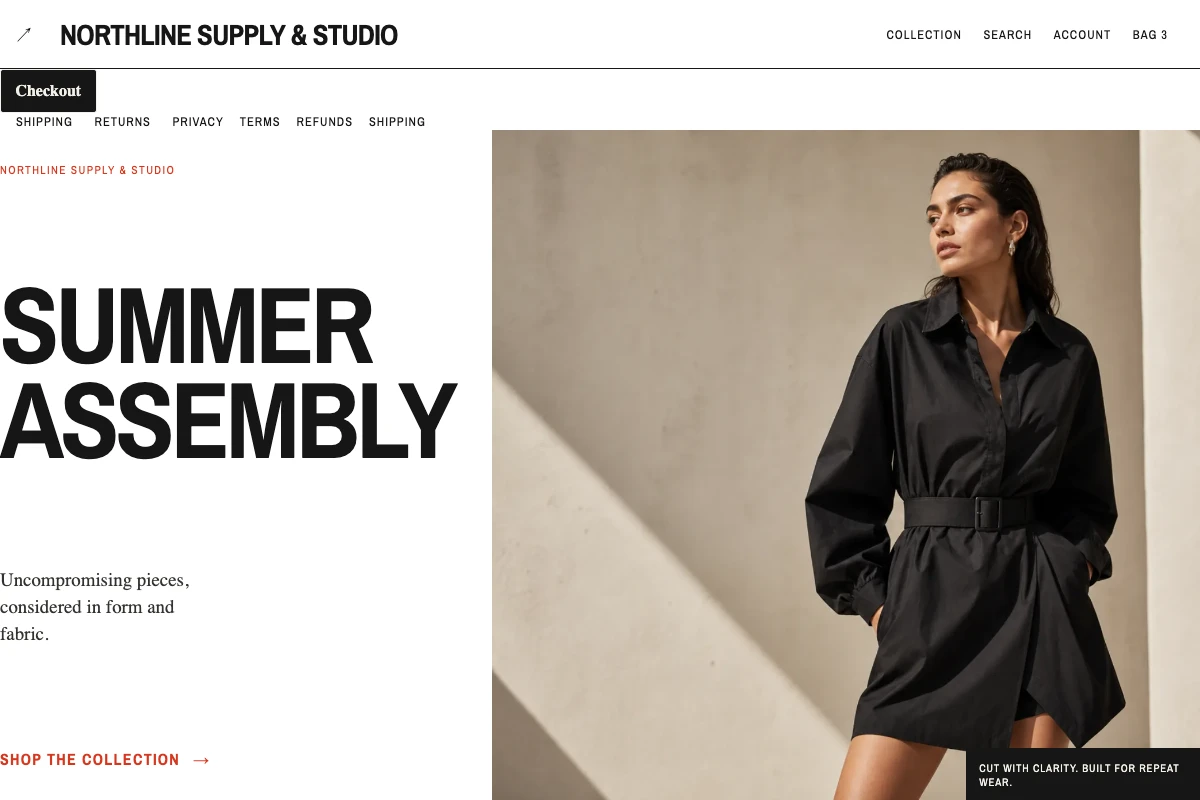
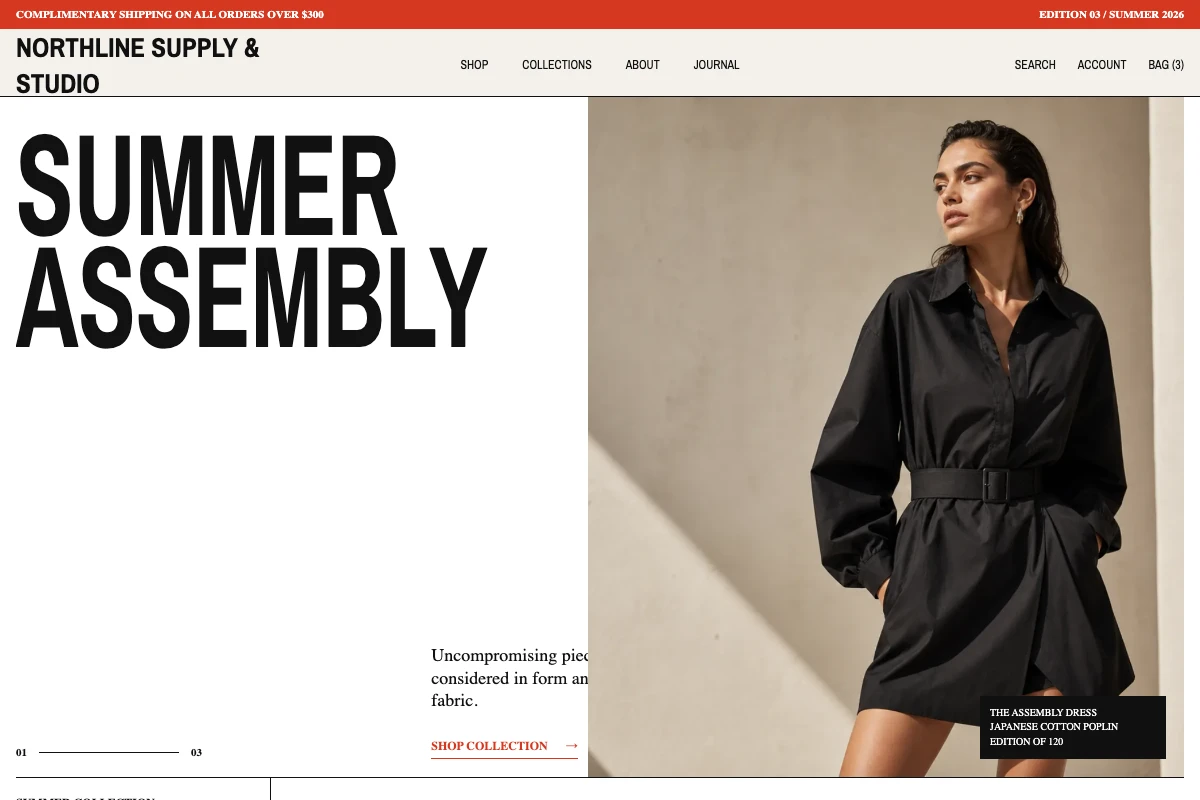
fix(storefront): preserve Atelier template fidelity

diff --git a/app/lib/storefront-recipes/atelier-nine/bundle.ts b/app/lib/storefront-recipes/atelier-nine/bundle.ts
@@ -8,10 +8,15 @@ const routeDefaults: Pick<RouteSource, "requiredData" | "requiredCapabilities"> 
 };
 
 const globalCss = `
-.atelier-wordmark { color:#161615; font-family:var(--font-display); font-size:1.8rem; font-weight:800; letter-spacing:-.025em; text-transform:uppercase }
-.atelier-nav { display:flex; align-items:center; gap:1.75rem; min-height:4.25rem; border-bottom:1px solid #161615 }
-.atelier-nav-links { display:flex; align-items:center; gap:1.35rem; margin-left:auto; font-family:var(--font-display); font-size:.78rem; letter-spacing:.08em; text-transform:uppercase }
-.atelier-link { color:#161615; text-decoration:none }
+.atelier-shell { width:min(calc(100% - 32px),1540px); margin-inline:auto }
+.announcement { display:flex; justify-content:space-between; padding:8px 16px; color:#fff; background:#d63821; font-size:11px; font-weight:700; text-transform:uppercase }
+.atelier-site-header { position:sticky; top:0; z-index:20; background:#f4f1eb; border-bottom:1px solid #101010 }
+.header-row { display:grid; grid-template-columns:250px 1fr 250px; align-items:center; height:67px }
+.atelier-wordmark { color:#101010; font-family:var(--font-display); font-size:27px; font-weight:900; text-transform:uppercase }
+.atelier-nav-links,.atelier-utility { display:flex; align-items:center; gap:34px; font-family:var(--font-display); font-size:12px; text-transform:uppercase }
+.atelier-nav-links { justify-content:center }
+.atelier-utility { justify-content:flex-end; gap:22px }
+.atelier-link { color:#101010; text-decoration:none }
 .atelier-link:hover { color:#d63821 }
 .atelier-heading { margin:0; color:#161615; font-family:var(--font-display); font-weight:800; letter-spacing:-.035em; line-height:.88; text-transform:uppercase }
 .atelier-serif { color:#34322f; font-family:var(--font-body); line-height:1.45 }
@@ -20,73 +25,117 @@ const globalCss = `
 .atelier-rule { border-bottom:1px solid #2a2927 }
 .atelier-action { display:inline-flex; align-items:center; gap:.8rem; color:#d63821; font-family:var(--font-display); font-weight:700; letter-spacing:.08em; text-decoration:none; text-transform:uppercase }
 .atelier-action:active { transform:translateY(1px) }
+.atelier-footer { display:grid; grid-template-columns:1.2fr 1fr 1fr; gap:50px; padding:48px 0 72px }
+.atelier-footer h3 { margin:0 0 16px; font-size:12px; text-transform:uppercase }
+.atelier-footer p,.atelier-footer a { color:#6e6b66; font-size:12px; line-height:1.8 }
+.newsletter { display:flex; justify-content:space-between; padding:10px 0; border-bottom:1px solid #101010; color:#6e6b66 }
+.shipping-bar { display:flex; justify-content:space-between; padding:11px 16px; color:#fff; background:#d63821; font-size:10px; text-transform:uppercase }
 @media (max-width:760px) {
-  .atelier-nav { flex-wrap:wrap; min-height:3.75rem; padding:.65rem 0 }
-  .atelier-nav-links { width:100%; gap:1rem; margin-left:0; overflow-x:auto }
+  .atelier-shell { width:min(calc(100% - 20px),1540px) }
+  .announcement span:last-child { display:none }
+  .header-row { display:flex; flex-wrap:wrap; width:calc(100vw - 20px); height:auto; min-height:58px; padding:8px 0 }
+  .atelier-wordmark { font-size:22px }
+  .atelier-nav-links { order:3; width:100%; gap:18px; overflow-x:auto; padding:7px 0 2px }
+  .atelier-utility { margin-left:auto }
+  .atelier-utility .atelier-link:not(:last-child) { display:none }
+  .atelier-footer { grid-template-columns:1fr; gap:28px; padding:40px 0 }
+  .shipping-bar { display:block; text-align:center }
+  .shipping-bar span:last-child { display:none }
 }
 `;
 
 const homeHtml = `
-<main>
-  <section class="atelier-home-hero">
-    <div class="atelier-home-copy">
-      <p class="atelier-home-store" data-cd-text="store.name"></p>
-      <h1 class="atelier-heading atelier-home-title">Summer Assembly</h1>
-      <p class="atelier-serif atelier-home-intro">Uncompromising pieces, considered in form and fabric.</p>
-      <a class="atelier-action" data-cd-route="collection">Shop the collection <span>→</span></a>
+<main id="top">
+  <section class="atelier-shell hero" aria-labelledby="hero-title">
+    <div class="hero-copy">
+      <h1 class="hero-title" id="hero-title"><span>Summer</span><span>Assembly</span></h1>
+      <div class="hero-lower">
+        <div class="edition"><b>01</b><i></i><b>03</b></div>
+        <div class="hero-intro"><p>Uncompromising pieces, considered in form and fabric.</p><a class="arrow-link" data-cd-route="collection">Shop collection <span>→</span></a></div>
+      </div>
     </div>
-    <figure class="atelier-home-figure">
-      <img class="atelier-media atelier-home-image" data-cd-asset="hero" alt="A monochrome tailored look from the summer assembly" width="1800" height="1200" decoding="async">
-      <figcaption class="atelier-home-caption">Cut with clarity. Built for repeat wear.</figcaption>
-    </figure>
+    <div class="hero-media"><img data-cd-asset="hero" alt="Model wearing the black Assembly shirt dress" width="1800" height="1200"><div class="hero-note">The Assembly Dress<br>Japanese cotton poplin<br>Edition of 120</div></div>
   </section>
-  <section class="atelier-home-index">
-    <h2 class="atelier-heading atelier-home-index-title">The current edit</h2>
-    <article class="atelier-home-card" data-cd-repeat="featured.products">
-      <a class="atelier-link" data-cd-key="product.id" data-cd-route="product" data-cd-param-handle="product.handle">
-        <img class="atelier-media atelier-home-card-image" data-cd-src="product.primaryImage" data-cd-alt="product.title" width="800" height="1000" loading="lazy">
-        <span class="atelier-home-card-title" data-cd-text="product.title"></span>
-        <span class="atelier-price" data-cd-money="product.price"></span>
-      </a>
-    </article>
+  <section class="atelier-shell catalog" aria-labelledby="catalog-title">
+    <aside class="catalog-side" tabindex="0"><h2 id="catalog-title">Summer collection</h2><div class="category-list"><span>New arrivals <small>04</small></span><span>Dresses <small>01</small></span><span>Tops <small>02</small></span><span>Outerwear <small>01</small></span></div></aside>
+    <div class="catalog-main">
+      <div class="catalog-head"><h2>New arrivals</h2><span>Featured</span></div>
+      <div class="product-grid">
+        <article class="product" data-cd-repeat="featured.products">
+          <a class="atelier-link" data-cd-key="product.id" data-cd-route="product" data-cd-param-handle="product.handle">
+            <div class="product-media"><img data-cd-src="product.primaryImage" data-cd-alt="product.title" width="800" height="1000" loading="lazy"><span class="product-badge">Edition</span></div>
+            <div class="product-info"><span data-cd-text="product.title"></span><span class="atelier-price" data-cd-money="product.price"></span></div>
+          </a>
+        </article>
+      </div>
+    </div>
   </section>
-  <section data-cd-repeat="featured.products">
-    <div data-cd-key="product.id" data-cd-slot="quickViewCommerce" data-cd-product="product.id" data-cd-host-size="panel" data-cd-theme-tokens="ink paper accent"></div>
+  <section data-cd-repeat="featured.products"><div data-cd-key="product.id" data-cd-slot="quickViewCommerce" data-cd-product="product.id" data-cd-host-size="panel" data-cd-theme-tokens="ink paper accent"></div></section>
+  <section class="atelier-shell manifesto">
+    <div class="manifesto-copy"><span class="manifesto-kicker">The Atelier Standard</span><h2>Designed slowly. Worn without ceremony.</h2><p>Every piece begins with proportion: a shoulder line, a clean fall, a pocket placed exactly where the hand expects it. We use materials selected for movement, longevity, and a life beyond one season.</p><a class="arrow-link" data-cd-route="collection">Read our process <span>→</span></a></div>
+    <div class="manifesto-index"><div><strong>09</strong><span>Pieces / one complete wardrobe</span></div></div>
   </section>
-  <section class="atelier-home-manifesto">
-    <h2 class="atelier-serif atelier-home-manifesto-title">Designed slowly. Worn without ceremony.</h2>
-    <p class="atelier-home-manifesto-copy">A concise wardrobe begins with proportion, movement, and materials selected for a life beyond one season.</p>
-  </section>
-</main>`;
+</main>
+<footer class="atelier-shell atelier-footer"><div><h3 data-cd-text="store.name"></h3><p>A concise wardrobe for deliberate living.<br>Designed in Toronto. Made with specialist ateliers.</p></div><div><h3>Customer care</h3><div class="atelier-policy-links" data-cd-policy-links></div></div><div><h3>Private notes</h3><p>New editions, studio notes, and first access.</p><div class="newsletter"><span>Email address</span><span>→</span></div></div></footer>
+<div class="shipping-bar"><span>Complimentary shipping on all orders over $300</span><span>Shipping &nbsp; Returns &nbsp; Contact &nbsp; Terms &nbsp; Privacy</span></div>`;
 
 const homeCss = `
-.atelier-home-hero { display:grid; grid-template-columns:minmax(0,.82fr) minmax(0,1.18fr); min-height:42rem; border-bottom:1px solid #161615 }
-.atelier-home-copy { display:flex; flex-direction:column; justify-content:space-between; padding:2rem 2.5rem 2rem 0 }
-.atelier-home-store { margin:0; color:#d63821; font-family:var(--font-display); font-size:.72rem; letter-spacing:.12em; text-transform:uppercase }
-.atelier-home-title { max-width:6ch; font-size:clamp(4.5rem,9vw,9rem) }
-.atelier-home-intro { max-width:21ch; margin:0; font-size:1.18rem }
-.atelier-home-figure { position:relative; min-height:42rem; margin:0; overflow:hidden }
-.atelier-home-image { height:100%; min-height:42rem }
-.atelier-home-caption { position:absolute; right:0; bottom:0; max-width:13rem; padding:.8rem; color:#f5f1e9; background:#161615; font-family:var(--font-display); font-size:.68rem; letter-spacing:.08em; text-transform:uppercase }
-.atelier-home-index { display:grid; grid-template-columns:minmax(11rem,.55fr) minmax(0,2.45fr); border-bottom:1px solid #161615 }
-.atelier-home-index-title { padding:1.25rem 1.5rem 1.25rem 0; font-size:1.1rem }
-.atelier-home-card { display:inline-block; width:min(24%,22rem); vertical-align:top; border-left:1px solid #aaa49b }
-.atelier-home-index { overflow-x:auto; scroll-snap-type:x proximity }
-.atelier-home-card { scroll-snap-align:start }
-.atelier-home-card-title { display:block; padding:.8rem .8rem .2rem; font-family:var(--font-display); font-size:.82rem; text-transform:uppercase }
-.atelier-home-card-image { aspect-ratio:4 / 5 }
-.atelier-home-card .atelier-price { display:block; padding:0 .8rem 1rem }
-.atelier-home-manifesto { display:grid; grid-template-columns:1.35fr .65fr; min-height:24rem; background:#b52d1c }
-.atelier-home-manifesto-title { max-width:11ch; margin:0; padding:3rem; color:#f5f1e9; font-size:clamp(2.5rem,5vw,4.5rem); font-weight:400 }
-.atelier-home-manifesto-copy { align-self:end; margin:0; padding:3rem; color:#f5f1e9; font-family:var(--font-display); line-height:1.5 }
+.hero { display:grid; grid-template-columns:49% 51%; min-height:680px; border-bottom:1px solid #101010 }
+.hero-copy { display:grid; grid-template-rows:1fr auto; overflow:hidden; padding:30px 18px 18px 0 }
+.hero-title { width:137%; margin:0; font-family:var(--font-display); font-size:144px; font-weight:900; line-height:.78; text-transform:uppercase; transform:scaleX(.73); transform-origin:top left }
+.hero-title span { display:block }
+.hero-lower { display:grid; grid-template-columns:1fr 230px; gap:24px; align-items:end }
+.edition { display:flex; align-items:center; gap:12px; font-size:11px }
+.edition i { width:140px; height:1px; background:#101010 }
+.hero-intro p { max-width:22ch; margin:0 0 24px; font-family:var(--font-body); font-size:18px; line-height:1.25 }
+.arrow-link { display:inline-flex; align-items:center; gap:18px; padding-bottom:5px; color:#d63821; border-bottom:1px solid currentColor; font-weight:750; font-size:12px; text-decoration:none; text-transform:uppercase }
+.hero-media { position:relative; min-height:680px; overflow:hidden }
+.hero-media img { width:100%; height:100%; object-fit:cover; object-position:58% center }
+.hero-note { position:absolute; right:18px; bottom:18px; width:166px; padding:10px; color:#fff; background:#101010; font-size:10px; line-height:1.45; text-transform:uppercase }
+.catalog { display:grid; grid-template-columns:255px minmax(0,1fr); border-bottom:1px solid #101010 }
+.catalog-side { padding:18px 28px 28px 0; border-right:1px solid #101010 }
+.catalog-side h2,.catalog-head h2 { margin:0; font-size:12px; text-transform:uppercase }
+.catalog-side h2 { margin-bottom:28px }
+.category-list { display:grid }
+.category-list span { display:flex; justify-content:space-between; padding:12px 0; border-bottom:1px solid #aaa49b; font-size:12px; text-transform:uppercase }
+.category-list span:first-child { color:#d63821; border-top:1px solid #aaa49b; font-weight:750 }
+.category-list small { color:#6e6b66 }
+.catalog-main { min-width:0 }
+.catalog-head { display:flex; align-items:center; justify-content:space-between; height:58px; padding:0 16px; border-bottom:1px solid #101010; font-size:10px; text-transform:uppercase }
+.product-grid { display:grid; grid-template-columns:repeat(4,minmax(0,1fr)) }
+.product { min-width:0; border-right:1px solid #aaa49b }
+.product-media { position:relative; width:100%; aspect-ratio:4 / 5; overflow:hidden; background:#ebe6de }
+.product-media img { width:100%; height:100%; object-fit:cover }
+.product-badge { position:absolute; top:10px; left:10px; padding:5px 7px; color:#fff; background:#101010; font-size:9px; text-transform:uppercase }
+.product-info { display:grid; grid-template-columns:1fr auto; gap:7px 14px; padding:12px 10px 18px; font-size:11px; text-transform:uppercase }
+.manifesto { display:grid; grid-template-columns:1.25fr .75fr; min-height:430px; border-bottom:1px solid #101010 }
+.manifesto-copy { padding:56px 7vw 62px 0; border-right:1px solid #101010 }
+.manifesto-kicker { color:#d63821; font-size:11px; text-transform:uppercase }
+.manifesto h2 { max-width:10ch; margin:24px 0 32px; font-family:var(--font-body); font-size:44px; line-height:1.04; font-weight:400 }
+.manifesto p { max-width:54ch; color:#6e6b66; line-height:1.7 }
+.manifesto-index { display:grid; place-items:center; color:#fff; background:#d63821 }
+.manifesto-index strong { font-family:var(--font-display); font-size:128px; line-height:1 }
+.manifesto-index span { display:block; margin-top:10px; text-align:center; text-transform:uppercase; font-size:11px }
+@media (max-width:1120px) { .hero-title{font-size:104px}.hero,.hero-media{min-height:600px}.product-grid{grid-template-columns:repeat(2,1fr)} }
 @media (max-width:760px) {
-  .atelier-home-hero, .atelier-home-index, .atelier-home-manifesto { grid-template-columns:1fr }
-  .atelier-home-copy { min-height:28rem; padding:1.5rem 0 }
-  .atelier-home-title { font-size:4.5rem }
-  .atelier-home-figure, .atelier-home-image { min-height:65vw }
-  .atelier-home-card { width:50% }
+  .hero { grid-template-columns:1fr; min-height:0 }
+  .hero-copy { min-height:450px; padding:25px 0 18px }
+  .hero-title { width:128%; font-size:66px; line-height:.82; transform:scaleX(.78) }
+  .hero-lower { grid-template-columns:1fr }
+  .hero-intro p { margin:0; font-size:15px }
+  .hero-media { min-height:72vw }
+  .catalog { grid-template-columns:1fr }
+  .catalog-side { padding:18px 0; border-right:0; border-bottom:1px solid #101010; overflow-x:auto }
+  .category-list { display:flex; width:max-content; gap:18px }
+  .category-list span { gap:8px; border:0 }
+  .catalog-head { padding-inline:0 }
+  .product-grid { grid-template-columns:repeat(2,1fr) }
+  .product-info { grid-template-columns:1fr }
+  .manifesto { grid-template-columns:1fr }
+  .manifesto-copy { padding:42px 0; border-right:0 }
+  .manifesto h2 { font-size:34px }
+  .manifesto-index { min-height:280px }
 }
-@media (prefers-reduced-motion:reduce) { .atelier-home-index { scroll-snap-type:none } }
 `;
 
 const collectionHtml = `
@@ -288,7 +337,8 @@ const checkoutCss = `
 .atelier-checkout-story { display:grid; grid-template-columns:2fr 1fr; gap:32px; padding:48px 0; border-bottom-width:1px; border-style:solid; border-color:#aaa49b }
 .atelier-checkout-title { margin:0; color:#161615; font-family:var(--font-display); font-size:64px; font-weight:800; line-height:48px }
 .atelier-checkout-copy { margin:0; color:#5c5953; font-family:var(--font-body); font-size:18px; line-height:28px }
-.atelier-checkout-policies { margin-top:24px }
+.atelier-checkout-policies { display:grid; grid-template-columns:1fr 1fr; gap:12px; margin-top:24px }
+.atelier-checkout-policies a { color:#5c5953; font-size:12px; text-decoration:none }
 @media (max-width:760px) {
   .atelier-checkout-head { display:block }
   .atelier-checkout-note { margin-top:16px; text-align:left }
@@ -336,11 +386,11 @@ const config = {
   },
   surfaces: {
     shell: {
-      signature: "single-line issue masthead above a separate trusted cart surface",
+      signature: "canonical announcement and masthead before the route composition",
       source: {
         ...routeDefaults,
-        html: `<header class="atelier-nav"><span class="niche-icon niche-icon--atelier" aria-hidden="true">&#8599;</span><a class="atelier-wordmark atelier-link" data-cd-route="home" data-cd-text="store.name"></a><nav class="atelier-nav-links" aria-label="Primary"><a class="atelier-link" data-cd-route="collection">Collection</a><a class="atelier-link" data-cd-route="search">Search</a><a class="atelier-link" data-cd-route="account">Account</a><a class="atelier-link" data-cd-route="cart">Bag <span data-cd-text="cart.count"></span></a></nav></header><div data-cd-slot="cartDrawer" data-cd-host-size="panel" data-cd-theme-tokens="ink paper accent"></div><footer class="atelier-nav-links"><a class="atelier-link" data-cd-route="policy" data-cd-param-policy-id="shipping">Shipping</a><a class="atelier-link" data-cd-route="policy" data-cd-param-policy-id="refund">Returns</a><div class="atelier-policy-links" data-cd-policy-links></div></footer>`,
-        css: `.atelier-nav, .atelier-nav-links { padding-left:max(1rem,calc((100% - 96rem)/2)); padding-right:max(1rem,calc((100% - 96rem)/2)) }.atelier-policy-links{display:flex;flex-wrap:wrap;gap:1rem}.atelier-policy-links a{color:var(--ink);text-decoration:none} @media(max-width:720px){.atelier-nav{align-items:start;display:grid;gap:.75rem}.atelier-nav-links{display:grid;grid-template-columns:repeat(2,1fr);gap:.5rem}.atelier-nav-links a{border-top:1px solid var(--line);padding-top:.45rem}}`,
+        html: `<div class="announcement"><span>Complimentary shipping on all orders over $300</span><span>Edition 03 / Summer 2026</span></div><header class="atelier-site-header"><div class="atelier-shell header-row"><a class="atelier-wordmark atelier-link" data-cd-route="home" data-cd-text="store.name"></a><nav class="atelier-nav-links" aria-label="Primary"><a class="atelier-link" data-cd-route="collection">Shop</a><a class="atelier-link" data-cd-route="collection">Collections</a><a class="atelier-link" data-cd-route="home">About</a><a class="atelier-link" data-cd-route="search">Journal</a></nav><div class="atelier-utility"><a class="atelier-link" data-cd-route="search">Search</a><a class="atelier-link" data-cd-route="account">Account</a><a class="atelier-link" data-cd-route="cart">Bag (<span data-cd-text="cart.count"></span>)</a></div></div></header><div data-cd-slot="cartDrawer" data-cd-host-size="panel" data-cd-theme-tokens="ink paper accent"></div>`,
+        css: `.atelier-policy-links{display:flex;flex-wrap:wrap;gap:1rem}.atelier-policy-links a{color:var(--ink);text-decoration:none}`,
       },
     },
     home: { signature: "offset cover story beside owned full-height fashion photography", source: { ...routeDefaults, html: homeHtml, css: homeCss } },

diff --git a/app/lib/storefront-recipes/atelier-nine/bundle.test.ts b/app/lib/storefront-recipes/atelier-nine/bundle.test.ts
@@ -1,15 +1,38 @@
+import { readFileSync } from "node:fs";
+import path from "node:path";
+import { fileURLToPath } from "node:url";
 import { describe, expect, it } from "vitest";
 import type { RouteArtifact } from "~/lib/storefront-bundle/types";
 import { ATELIER_GRID_ASSETS } from "./assets";
 import { ATELIER_GRID_BUNDLE, ATELIER_GRID_RECIPE } from "./bundle";
 
 const ROUTES = ["home", "collection", "product", "search", "cart"] as const;
+const CANONICAL_HTML = readFileSync(path.resolve(
+  path.dirname(fileURLToPath(import.meta.url)),
+  "../../../../public/atelier-grid/index.html",
+), "utf8");
 
 function bindingPaths(route: RouteArtifact): string[] {
   return route.bindings.flatMap((binding) => binding.ref.kind === "data" ? [binding.ref.path] : []);
 }
 
 describe("Atelier Grid recipe contract", () => {
+  it("preserves the canonical storefront composition while products stay merchant-bound", () => {
+    const recipeHtml = `${ATELIER_GRID_RECIPE.config.surfaces.shell.source.html}\n${ATELIER_GRID_RECIPE.config.surfaces.home.source.html}`;
+    const recipeCss = `${ATELIER_GRID_RECIPE.config.designSystem.globalCss}\n${ATELIER_GRID_RECIPE.config.surfaces.home.source.css}`;
+    for (const className of [
+      "announcement", "header-row", "hero-lower", "edition", "catalog-side",
+      "catalog-main", "product-grid", "manifesto-copy", "manifesto-index", "shipping-bar",
+    ]) {
+      expect(CANONICAL_HTML).toMatch(new RegExp(`class="[^"]*\\b${className}\\b`));
+      expect(recipeHtml).toContain(className);
+      expect(recipeCss).toContain(`.${className}`);
+    }
+    expect(ATELIER_GRID_RECIPE.config.surfaces.shell.source.html).not.toContain("<footer");
+    expect(ATELIER_GRID_RECIPE.config.surfaces.home.source.html).toContain("<footer");
+    expect(ATELIER_GRID_RECIPE.config.surfaces.shell.source.html).toContain('data-cd-slot="cartDrawer"');
+  });
+
   it("compiles the approved asymmetric editorial identity through validation profile v1", () => {
     expect(ATELIER_GRID_RECIPE.report).toMatchObject({ ok: true, profileVersion: 1 });
     expect(ATELIER_GRID_BUNDLE.source).toEqual({ kind: "recipe", templateId: "atelier-nine", templateVersion: 1 });

diff --git a/app/lib/storefront-validation/browser.server.ts b/app/lib/storefront-validation/browser.server.ts
@@ -378,6 +378,7 @@ async function auditPage(page: Page, bundle: StorefrontBundleV1, routeId: Storef
       .filter((element) => !sources.has(element.id.replace(/-i-[a-z0-9]+$/, "")))
       .map((element) => element.id || element.outerHTML.slice(0, 120));
     const protectedFailures = [...document.querySelectorAll<HTMLElement>("[data-cd-trusted-slot]")].flatMap((host) => {
+      if (host.dataset.cdTrustedSlot === "cartDrawer" && host.hidden && !visible(host)) return [];
       host.scrollIntoView({ block: "center" });
       const rect = host.getBoundingClientRect();
       const x = Math.min(innerWidth - 1, Math.max(0, rect.left + Math.min(rect.width / 2, 20)));
@@ -386,6 +387,7 @@ async function auditPage(page: Page, bundle: StorefrontBundleV1, routeId: Storef
       return visible(host) && hit && (hit === host || host.contains(hit)) ? [] : [host.id || host.dataset.cdTrustedSlot || "trusted-slot"];
     });
     const commerceFailures = [...document.querySelectorAll<HTMLElement>("[data-cd-trusted-slot]")].flatMap((host) => {
+      if (host.dataset.cdTrustedSlot === "cartDrawer" && host.hidden && !visible(host)) return [];
       const controls = [...(host.shadowRoot?.querySelectorAll<HTMLElement>("button,input,select") ?? [])];
       if (!host.shadowRoot) return [`${host.id || host.dataset.cdTrustedSlot}:closed-or-missing-root`];
       if (controls.length === 0) return [`${host.id || host.dataset.cdTrustedSlot}:missing-control`];
@@ -655,6 +657,7 @@ export async function proveStorefrontBundle(input: ProveStorefrontBundleInput): 
       const commerceExerciseFailures = await page.evaluate(() => {
         const failures: string[] = [];
         for (const host of document.querySelectorAll<HTMLElement>("[data-cd-trusted-slot]")) {
+          if (host.dataset.cdTrustedSlot === "cartDrawer" && host.hidden) continue;
           const control = host.shadowRoot?.querySelector<HTMLElement>("button,select,input");
           if (!control) {
             failures.push(`${host.id || host.dataset.cdTrustedSlot}:missing-control`);

diff --git a/app/lib/storefront-runtime/storefront-hydrator.tsx b/app/lib/storefront-runtime/storefront-hydrator.tsx
@@ -98,7 +98,7 @@ function trustedCommerceStyle({ host, shadowRoot, slot }: CommerceMountContext):
   }
   const style = ownerDocument.createElement("style");
   style.nonce = ownerDocument.querySelector<HTMLStyleElement>("style[nonce]")?.nonce ?? "";
-  style.textContent = `:host{display:block;min-width:44px;min-height:44px;font:inherit;color:${foreground}}div{display:flex;align-items:center;gap:.5rem}button,select,input{min-width:44px;min-height:44px;padding:.65rem .9rem;border:1px solid ${foreground};border-radius:.2rem;background:${surface};color:${foreground};font:inherit}button{cursor:pointer;font-weight:700}button:disabled{cursor:not-allowed;opacity:.65}input{width:5.5rem}button:focus-visible,select:focus-visible,input:focus-visible{outline:3px solid ${foreground};outline-offset:2px}`;
+  style.textContent = `:host{display:block;min-width:44px;min-height:44px;font:inherit;color:${foreground}}:host([hidden]){display:none!important}div{display:flex;align-items:center;gap:.5rem}button,select,input{min-width:44px;min-height:44px;padding:.65rem .9rem;border:1px solid ${foreground};border-radius:.2rem;background:${surface};color:${foreground};font:inherit}button{cursor:pointer;font-weight:700}button:disabled{cursor:not-allowed;opacity:.65}input{width:5.5rem}button:focus-visible,select:focus-visible,input:focus-visible{outline:3px solid ${foreground};outline-offset:2px}`;
   return style;
 }
 

diff --git a/app/lib/storefront-runtime/trusted-slots.test.tsx b/app/lib/storefront-runtime/trusted-slots.test.tsx
@@ -22,6 +22,19 @@ describe("platform-owned commerce hosts", () => {
     expect(html).not.toContain("dangerouslySetInnerHTML");
   });
 
+  it("keeps cart drawers closed until the platform opens them", () => {
+    const slot: TrustedSlotManifest = {
+      id: "cd-shell-slot-1",
+      kind: "cartDrawer",
+      hostSize: "panel",
+      themeTokenIds: ["ink"],
+    };
+    const html = renderToStaticMarkup(<TrustedSlotHost slot={slot} instanceId={slot.id} compilerId={slot.id} authorityKey="cart:preview" />);
+
+    expect(html).toContain('data-cd-trusted-slot="cartDrawer"');
+    expect(html).toContain(' hidden=""');
+  });
+
   it("issues unique repeated host IDs bound to each public record", () => {
     const data: PublicPresentationData = {
       store: { name: "Store", logo: null }, policyLinks: [], product: null, collection: null,

diff --git a/app/lib/storefront-runtime/trusted-slots.tsx b/app/lib/storefront-runtime/trusted-slots.tsx
@@ -20,6 +20,7 @@ export function TrustedSlotHost({ slot, instanceId, compilerId, authorityKey }: 
       data-cd-theme-tokens={slot.themeTokenIds.join(" ")}
       data-cd-shadow-mode="closed"
       data-cd-instance={instance}
+      hidden={slot.kind === "cartDrawer"}
     />
   );
 }
